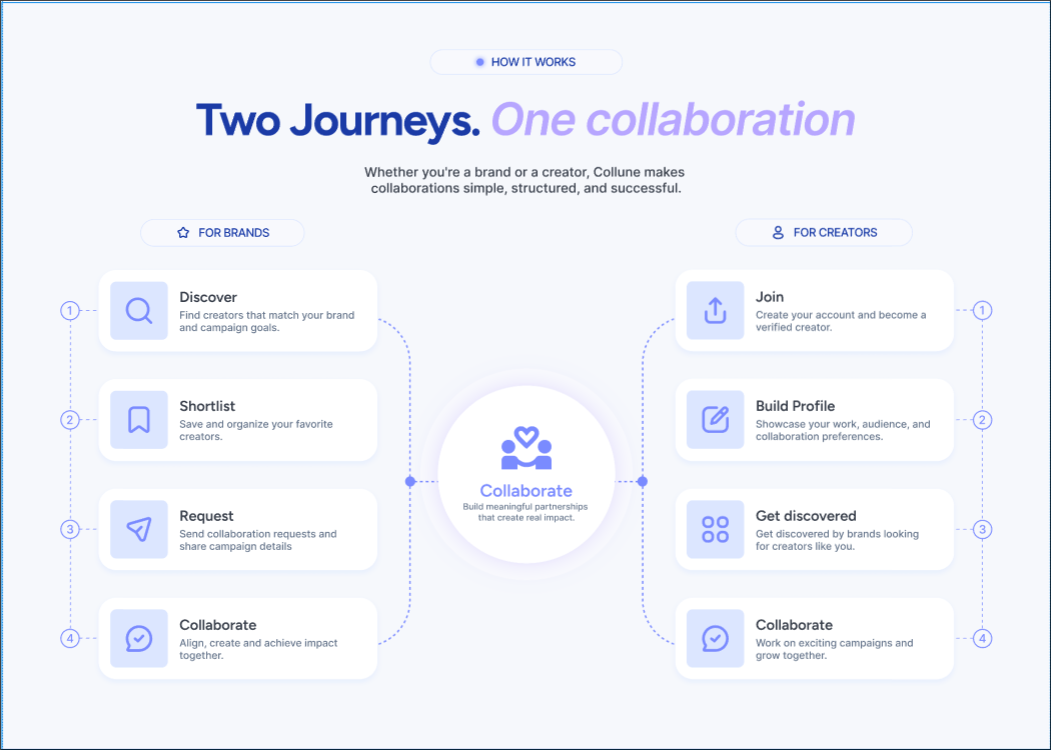
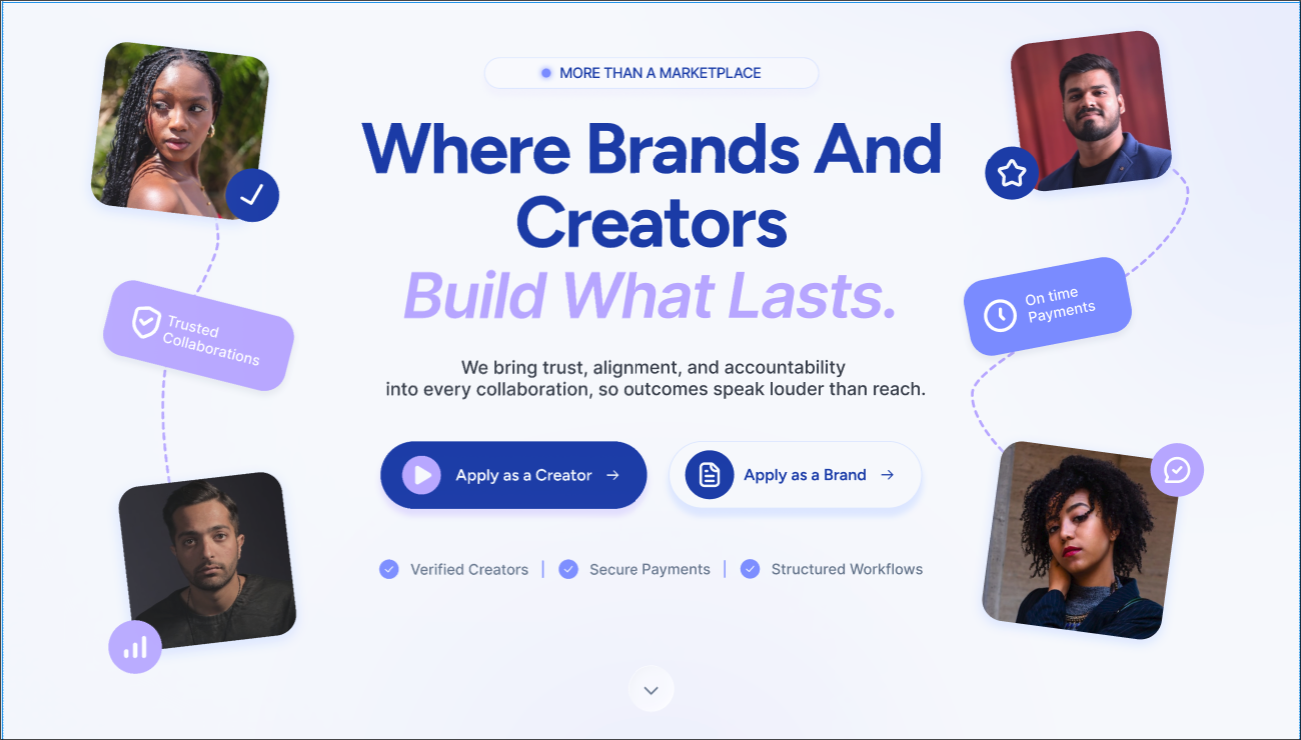
landing page ui change

Changed region(s): [[0.0609, 0.0311, 0.9439, 0.9324], [0.0, 0.9946, 1.0, 1.0], [0.9134, 0.4041, 0.9439, 0.4351]]

diff --git a/frontend/src/pages/LandingPage.tsx b/frontend/src/pages/LandingPage.tsx
@@ -7,6 +7,7 @@ import {
   Check,
   Clock3,
   FileText,
+  Heart,
   Lock,
   MessageCircle,
   Play,
@@ -16,6 +17,7 @@ import {
   Sparkles,
   Star,
   Upload,
+  UsersRound,
   UserRound,
 } from "lucide-react";
 import { useEffect, useMemo, useState, type ReactNode } from "react";
@@ -276,22 +278,29 @@ const LandingPage = () => {
         </div>
       </section>
 
-      <section id="how-it-works" className="px-6 pb-28 text-center">
-        <SectionLabel>How It Works</SectionLabel>
-        <h2 className="mb-5 mt-8 text-[clamp(42px,5.4vw,66px)] font-black leading-none tracking-normal text-[#153fb8]">
+      <section id="how-it-works" className="bg-[#f3f6ff] px-6 pb-24 pt-4 text-center">
+        <SectionLabel className="min-w-[235px] bg-white/35">How It Works</SectionLabel>
+        <h2 className="mb-6 mt-7 text-[clamp(42px,5.35vw,66px)] font-black leading-none tracking-normal text-[#153fb8]">
           Two Journeys. <span className="italic text-[#ad9bff]">One collaboration</span>
         </h2>
-        <p className="mx-auto max-w-xl text-[15px] font-extrabold leading-tight text-[#4e5c77]">
+        <p className="mx-auto max-w-xl text-[15px] font-black leading-tight text-[#566179]">
           Whether you're a brand or a creator, Collune makes collaborations simple,
           structured, and successful.
         </p>
-        <div className="mx-auto mt-16 grid max-w-7xl items-center gap-12 lg:grid-cols-[1fr_320px_1fr]">
+        <div className="relative mx-auto mt-8 grid max-w-[1088px] items-center gap-10 lg:mt-7 lg:grid-cols-[1fr_250px_1fr] lg:gap-12">
+          <span className="absolute left-[34.5%] top-[128px] hidden h-[398px] w-[56px] rounded-r-[54px] border-y-2 border-r-2 border-dashed border-[#9aaaff] lg:block" />
+          <span className="absolute right-[34.5%] top-[128px] hidden h-[398px] w-[56px] rounded-l-[54px] border-y-2 border-l-2 border-dashed border-[#9aaaff] lg:block" />
           <JourneyColumn title="For Brands" side="left" steps={brandSteps} />
-          <div className="relative order-first grid min-h-[260px] place-items-center lg:order-none lg:min-h-[390px] lg:before:absolute lg:before:right-1/2 lg:before:top-1/2 lg:before:w-36 lg:before:border-t-2 lg:before:border-dashed lg:before:border-[#a8b7ff] lg:before:content-[''] lg:after:absolute lg:after:left-1/2 lg:after:top-1/2 lg:after:w-36 lg:after:border-t-2 lg:after:border-dashed lg:after:border-[#a8b7ff] lg:after:content-['']">
-            <div className="relative z-10 grid h-[220px] w-[220px] place-items-center content-center rounded-full border-[20px] border-[#e9e5ff] bg-white p-10 text-center text-[#8794ff] shadow-[0_20px_42px_rgba(56,72,145,0.08)] md:h-[245px] md:w-[245px]">
-              <Sparkles className="h-9 w-9 fill-current" />
-              <strong className="mt-2 text-[22px] font-black">Collaborate</strong>
-              <span className="text-[11px] font-extrabold leading-tight text-[#8a94ad]">Build meaningful partnerships that create real impact.</span>
+          <div className="relative order-first grid min-h-[230px] place-items-center lg:order-none lg:min-h-[498px]">
+            <span className="absolute left-[-42px] top-1/2 hidden h-3.5 w-3.5 -translate-y-1/2 rounded-full bg-[#8195ff] lg:block" />
+            <span className="absolute right-[-42px] top-1/2 hidden h-3.5 w-3.5 -translate-y-1/2 rounded-full bg-[#8195ff] lg:block" />
+            <div className="relative z-10 grid h-[198px] w-[198px] place-items-center content-center rounded-full border-[18px] border-[#eeeaff] bg-white p-9 text-center text-[#8294ff] shadow-[0_18px_45px_rgba(129,149,255,0.16),0_0_0_16px_rgba(255,255,255,0.42)] md:h-[216px] md:w-[216px]">
+              <span className="relative mb-1 grid h-[48px] w-[66px] place-items-center">
+                <UsersRound className="h-10 w-10 stroke-[3]" />
+                <Heart className="absolute -top-1 right-2 h-6 w-6 fill-white stroke-[3]" />
+              </span>
+              <strong className="text-[20px] font-black leading-none">Collaborate</strong>
+              <span className="mt-1 max-w-[124px] text-[10px] font-black leading-[1.05] text-[#8b96ab]">Build meaningful partnerships that create real impact.</span>
             </div>
           </div>
           <JourneyColumn title="For Creators" side="right" steps={creatorSteps} />
@@ -319,9 +328,9 @@ const LandingPage = () => {
   );
 };
 
-function SectionLabel({ children }: { children: string }) {
+function SectionLabel({ children, className = "" }: { children: string; className?: string }) {
   return (
-    <div className="inline-flex min-h-7 min-w-[min(330px,100%)] items-center justify-center gap-2 rounded-full border border-[#dae3ff] bg-white/60 px-8 text-[12px] font-black uppercase text-[#2a54cf]">
+    <div className={`inline-flex min-h-7 min-w-[min(330px,100%)] items-center justify-center gap-2 rounded-full border border-[#dae3ff] bg-white/60 px-8 text-[12px] font-black uppercase text-[#2a54cf] ${className}`}>
       <span className="h-2 w-2 rounded-full bg-[#8195ff] shadow-[0_0_0_4px_rgba(129,149,255,0.13)]" />
       {children}
     </div>
@@ -406,25 +415,34 @@ function JourneyColumn({
   steps: typeof brandSteps;
 }) {
   return (
-    <div>
-      <div className="mb-8 inline-flex min-w-[220px] items-center justify-center gap-2 rounded-full border border-[#dce5ff] px-5 py-2.5 text-[13px] font-black uppercase text-[#3558c9]">
+    <div className="relative z-10 mx-auto w-full max-w-[354px] lg:mx-0">
+      <div className="mb-6 inline-flex min-w-[205px] items-center justify-center gap-2 rounded-full border border-[#dce5ff] bg-white/20 px-5 py-2 text-[13px] font-black uppercase text-[#3558c9]">
         {side === "left" ? <Star className="h-3.5 w-3.5" /> : <UserRound className="h-3.5 w-3.5" />}
         {title}
       </div>
-      <div className="relative grid gap-7 before:absolute before:bottom-9 before:top-9 before:border-l-2 before:border-dashed before:border-[#b1bdff] before:content-[''] before:left-0 lg:before:left-3">
+      <div
+        className={`relative grid gap-8 before:absolute before:bottom-10 before:top-10 before:border-l-2 before:border-dashed before:border-[#9aaaff] before:content-[''] ${
+          side === "left" ? "before:left-[-27px]" : "before:right-[-27px]"
+        }`}
+      >
         {steps.map((step, index) => {
           const Icon = step.icon;
           return (
-            <article key={step.title} className="relative grid min-h-[116px] grid-cols-[64px_1fr] items-center gap-4 rounded-lg border border-[#edf1fb] bg-white p-5 text-left shadow-[0_14px_30px_rgba(35,58,124,0.08)] md:grid-cols-[84px_1fr]">
-              <span className={`absolute top-1/2 grid h-6 w-6 -translate-y-1/2 place-items-center rounded-full border-2 border-[#93a4ff] bg-[#f5f7ff] text-xs font-black text-[#7e91ff] ${side === "left" ? "-left-3 lg:-left-12" : "-left-3 lg:-right-12 lg:left-auto"}`}>
+            <article key={step.title} className="relative grid min-h-[98px] grid-cols-[72px_1fr] items-center gap-3 rounded-[18px] bg-white px-4 py-4 text-left shadow-[0_10px_22px_rgba(45,63,132,0.07)] md:grid-cols-[80px_1fr]">
+              <span
+                className={`absolute top-1/2 hidden h-px w-5 -translate-y-1/2 border-t-2 border-dashed border-[#9aaaff] lg:block ${
+                  side === "left" ? "-left-5" : "-right-5"
+                }`}
+              />
+              <span className={`absolute top-1/2 grid h-6 w-6 -translate-y-1/2 place-items-center rounded-full border-2 border-[#8ea1ff] bg-[#f3f6ff] text-[13px] font-black leading-none text-[#8094ff] ${side === "left" ? "-left-[39px]" : "-right-[39px]"}`}>
                 {index + 1}
               </span>
-              <span className="grid h-16 w-16 place-items-center rounded-lg bg-[#e7edff] text-[#8194ff] md:h-[76px] md:w-[76px]">
-                <Icon className="h-8 w-8" />
+              <span className="grid h-[60px] w-[60px] place-items-center rounded-[7px] bg-[#e0e8ff] text-[#8194ff] md:h-[72px] md:w-[72px]">
+                <Icon className="h-8 w-8 stroke-[2.6]" />
               </span>
               <div>
-                <h3 className="mb-1 text-[17px] font-black text-[#3a4864]">{step.title}</h3>
-                <p className="text-[13px] font-extrabold leading-tight text-[#7c879d]">{step.text}</p>
+                <h3 className="mb-1 text-[17px] font-black leading-none text-[#3f485a]">{step.title}</h3>
+                <p className="text-[12px] font-black leading-tight text-[#748098]">{step.text}</p>
               </div>
             </article>
           );

diff --git a/frontend/src/components/layout/Navbar.tsx b/frontend/src/components/layout/Navbar.tsx
@@ -22,7 +22,6 @@ const navItems = [
   {
     label: "Brands",
     items: [
-      { label: "Featured Brands", href: "/featured-brands" },
       { label: "Success Stories", href: "/success-stories" },
     ],
   },
@@ -45,7 +44,7 @@ const Navbar = () => {
   return (
     <header className="fixed left-1/2 top-4 z-50 w-[calc(100%-32px)] max-w-7xl -translate-x-1/2 md:top-5">
       <div className="grid grid-cols-[1fr_auto] items-center gap-4 lg:grid-cols-[1fr_auto_1fr]">
-        <ColluneLogo to={currentUser ? dashboardPath : "/"} />
+        <ColluneLogo to={'/#top'} />
 
         <nav className="hidden items-center gap-8 rounded-full border border-[#dce5fb] bg-white/85 px-11 py-4 shadow-[0_16px_34px_rgba(69,96,170,0.1)] backdrop-blur-xl lg:flex">
           {navItems.map((item) =>

diff --git a/frontend/src/components/layout/MainLayout.tsx b/frontend/src/components/layout/MainLayout.tsx
@@ -1,11 +1,26 @@
-import { Outlet } from "react-router-dom";
+import { useEffect } from "react";
+import { Outlet, useLocation } from "react-router-dom";
 import Navbar from "./Navbar";
 import Footer from "./Footer";
 
+function ScrollToHash() {
+    const { hash } = useLocation();
+
+    useEffect(() => {
+        if (!hash) return;
+
+        window.requestAnimationFrame(() => {
+            document.getElementById(hash.slice(1))?.scrollIntoView({ behavior: "smooth" });
+        });
+    }, [hash]);
+
+    return null;
+}
 
 const MainLayout=()=>{
     return(
         <>
+        <ScrollToHash/>
         <Navbar/>
         <Outlet/>
         <Footer/>

diff --git a/frontend/src/pages/DiscoverCreatorsPage.tsx b/frontend/src/pages/DiscoverCreatorsPage.tsx
@@ -1,0 +1,11 @@
+
+
+
+export const DiscoverCreatorsPage = () => {
+
+
+
+    return (
+        <></>
+    )
+}
